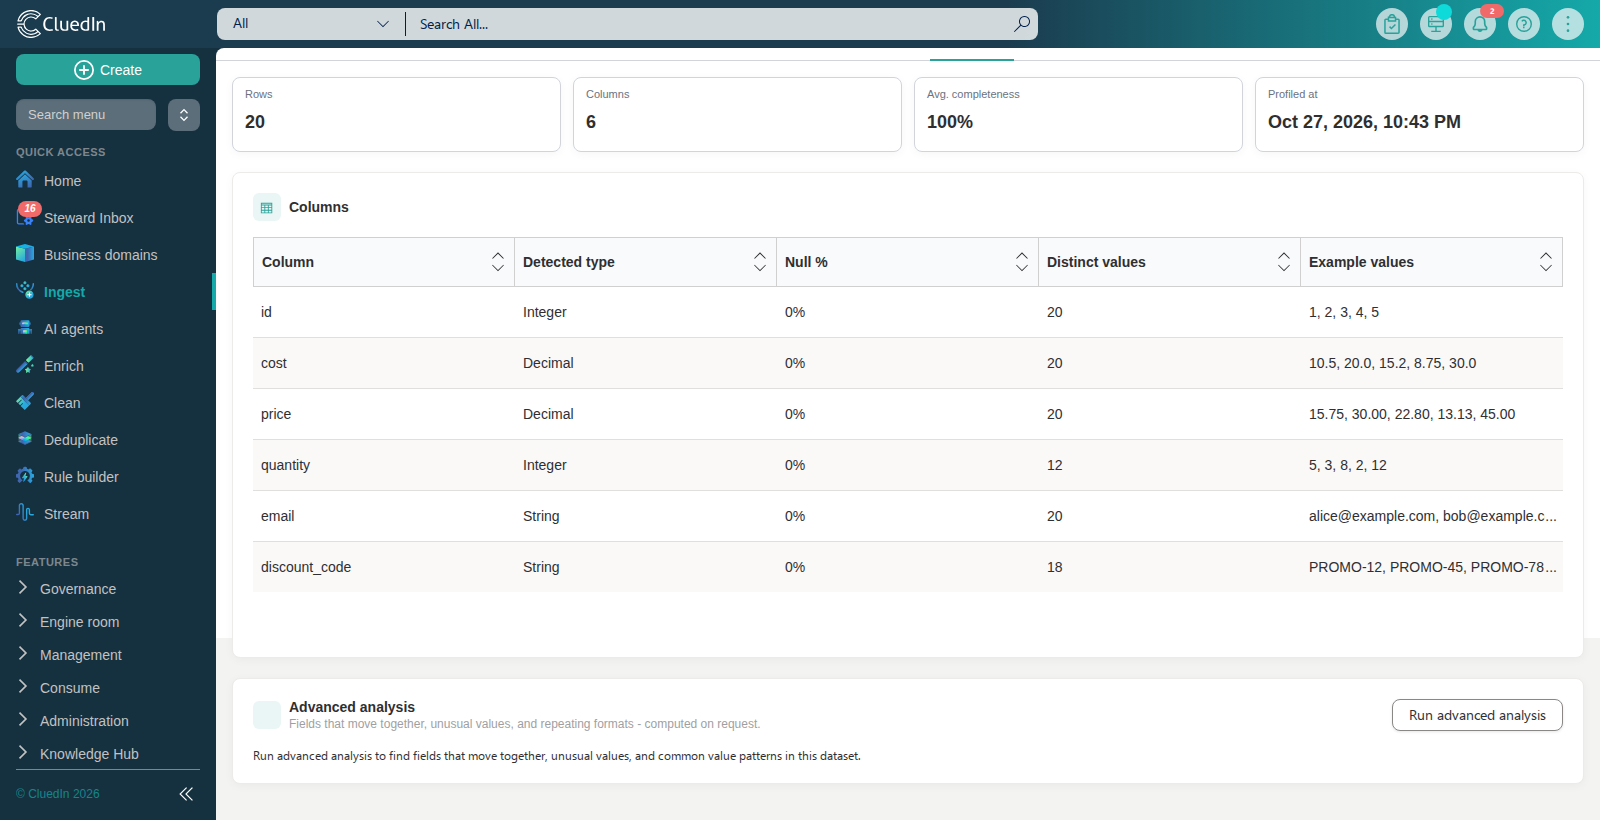
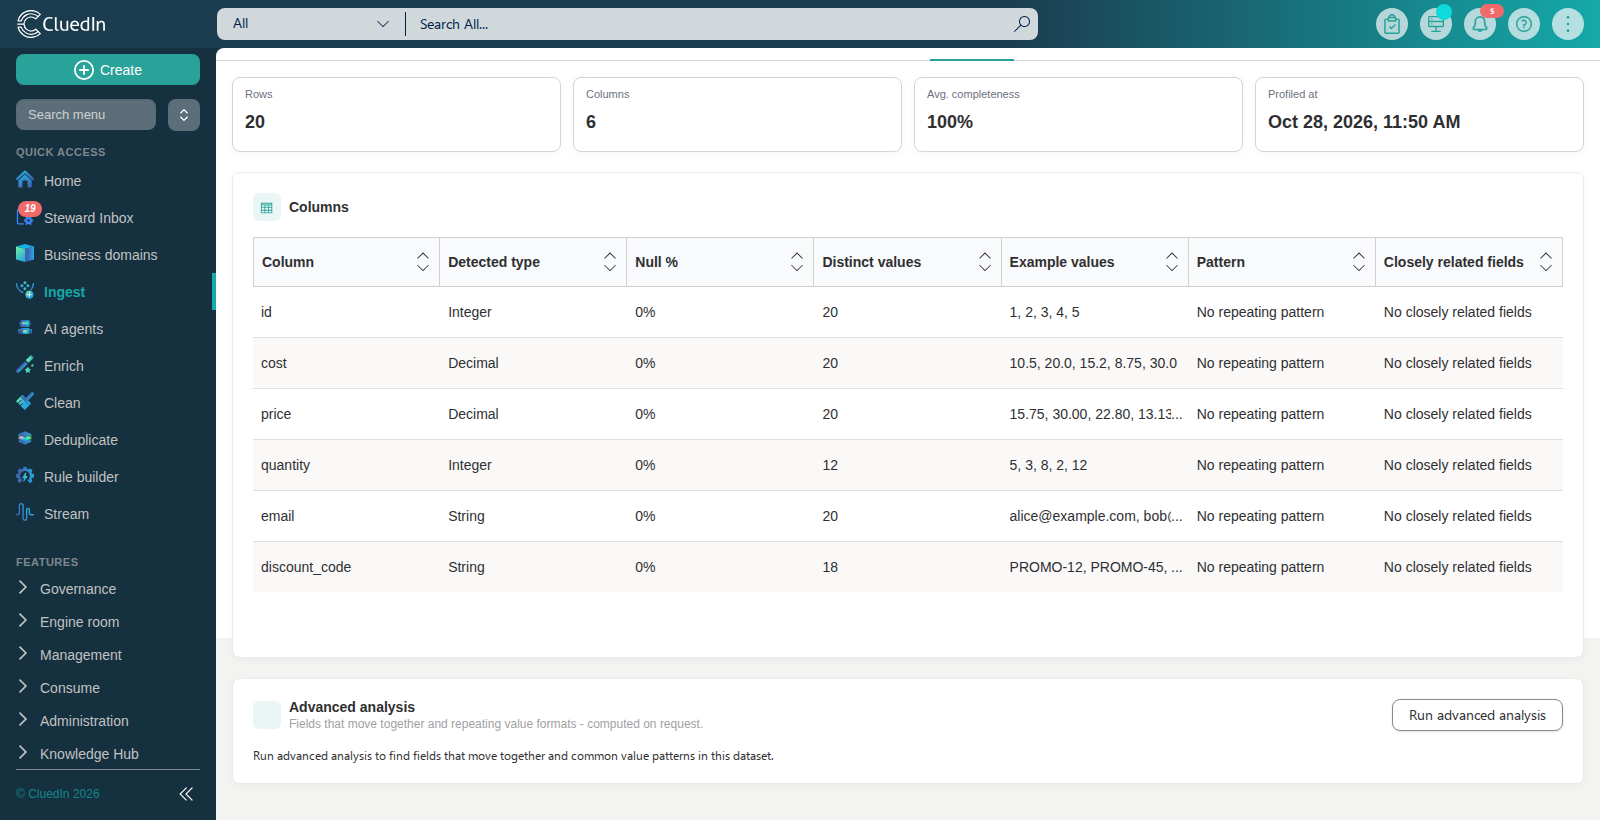
docs: Update Profile tab docs for the new Pattern/related-fields columns
The Profile tab now folds the advanced analysis results (pattern and
closely related fields) into the main columns table instead of
showing them as separate charts, and no longer reports anomalies.

diff --git a/docs/02-ingest/processing/025-profile.md b/docs/02-ingest/processing/025-profile.md
@@ -6,7 +6,7 @@ grand_parent: Ingest
 nav_order: 25
 permalink: /ingest/processing/profile
 content_type: how-to
-last_modified: 2026-10-27
+last_modified: 2026-10-28
 ---
 
 ## On this page
@@ -28,7 +28,7 @@ The profile is also structured so that it can be used later to help identify rel
 
 1. Once profiling finishes, the tab shows summary tiles and a table with one row per column.
 
-    ![Profile tab dashboard showing stat tiles for rows, columns, average completeness, and profiled-at time, above a table of the id, cost, price, quantity, email, and discount_code columns, each with its detected type, null percentage, distinct values, and example values]({{ "/assets/images/integration/additional-operations/profile-dashboard.png" | relative_url }})
+    ![Profile tab dashboard showing stat tiles for rows, columns, average completeness, and profiled-at time, above a table of the id, cost, price, quantity, email, and discount_code columns, each with its detected type, null percentage, distinct values, example values, pattern, and closely related fields]({{ "/assets/images/integration/additional-operations/profile-dashboard.png" | relative_url }})
 
     The summary tiles show the total row count, column count, average completeness across all columns, and when the profile was computed. The table includes the following information for each column:
 
@@ -40,11 +40,17 @@ The profile is also structured so that it can be used later to help identify rel
 
     - **Example values** – a few of the distinct values found in the column.
 
+    - **Pattern** – the column's most common value "shape", with digits collapsed to `9`, uppercase letters to `A`, and lowercase letters to `a`, and the share of the column's values that share it. Only shown when it covers more than a tenth of the column's values; this can reveal structure a column's detected type alone does not, such as a text column that is consistently formatted as an email address or a fixed-width code.
+
+    - **Closely related fields** – other columns whose values move together with this one, each with a couple of real value pairs so you can see the relationship rather than infer it from a statistic. Only a strong relationship is shown; two columns that merely happen to drift together are left out.
+
+    The **Pattern** and **Closely related fields** columns are empty until you run the advanced analysis described below.
+
     Below the table, a chart shows the columns with the highest percentage of empty values, if any.
 
 ## Run advanced analysis
 
-Because it costs more to compute, a deeper analysis of the data set is not generated automatically - you start it from the **Advanced analysis** card at the bottom of the **Profile** tab.
+Because it costs more to compute, filling in the **Pattern** and **Closely related fields** columns is not automatic - you start it from the **Advanced analysis** card at the bottom of the **Profile** tab.
 
 **To run advanced analysis**
 
@@ -54,17 +60,11 @@ Because it costs more to compute, a deeper analysis of the data set is not gener
 
     The card shows an **Analysis in progress** message with a progress indicator while it runs.
 
-1. Once it finishes, the card shows three sections:
+1. Once it finishes, the card confirms completion, and the **Pattern** and **Closely related fields** columns in the table above are filled in.
 
-    ![Advanced analysis card showing a Fields that move together chart, with a cost and price bar labeled Very strong match between axis labels Opposite, No link, and Together]({{ "/assets/images/integration/additional-operations/profile-advanced-results.png" | relative_url }})
+    ![Profile table with the Pattern and Closely related fields columns filled in, including a cost and price row each showing the other as a closely related field with example value pairs]({{ "/assets/images/integration/additional-operations/profile-advanced-results.png" | relative_url }})
 
-    - **Fields that move together** – pairs of numeric columns whose values rise and fall together, or move in opposite directions, labeled **Strong** or **Very strong** rather than as a raw statistic. Only a strong relationship is shown; two columns that merely happen to drift together are left out. Pointing at a bar shows the plain-language relationship and its exact strength.
-
-    - **Unusual values** – numeric columns that have values far outside the column's normal range, with how many such values each column has.
-
-    - **Repeating formats** – the most common value "shapes" per column, with digits collapsed to `9`, uppercase letters to `A`, and lowercase letters to `a`. This can reveal structure a column's detected type alone does not, such as a text column that is consistently formatted as an email address or a fixed-width code.
-
-    Any section with nothing to report says so instead of showing an empty chart.
+    A column with nothing to report shows **No repeating pattern** or **No closely related fields** instead of being left blank.
 
 ## Verify the result
 
